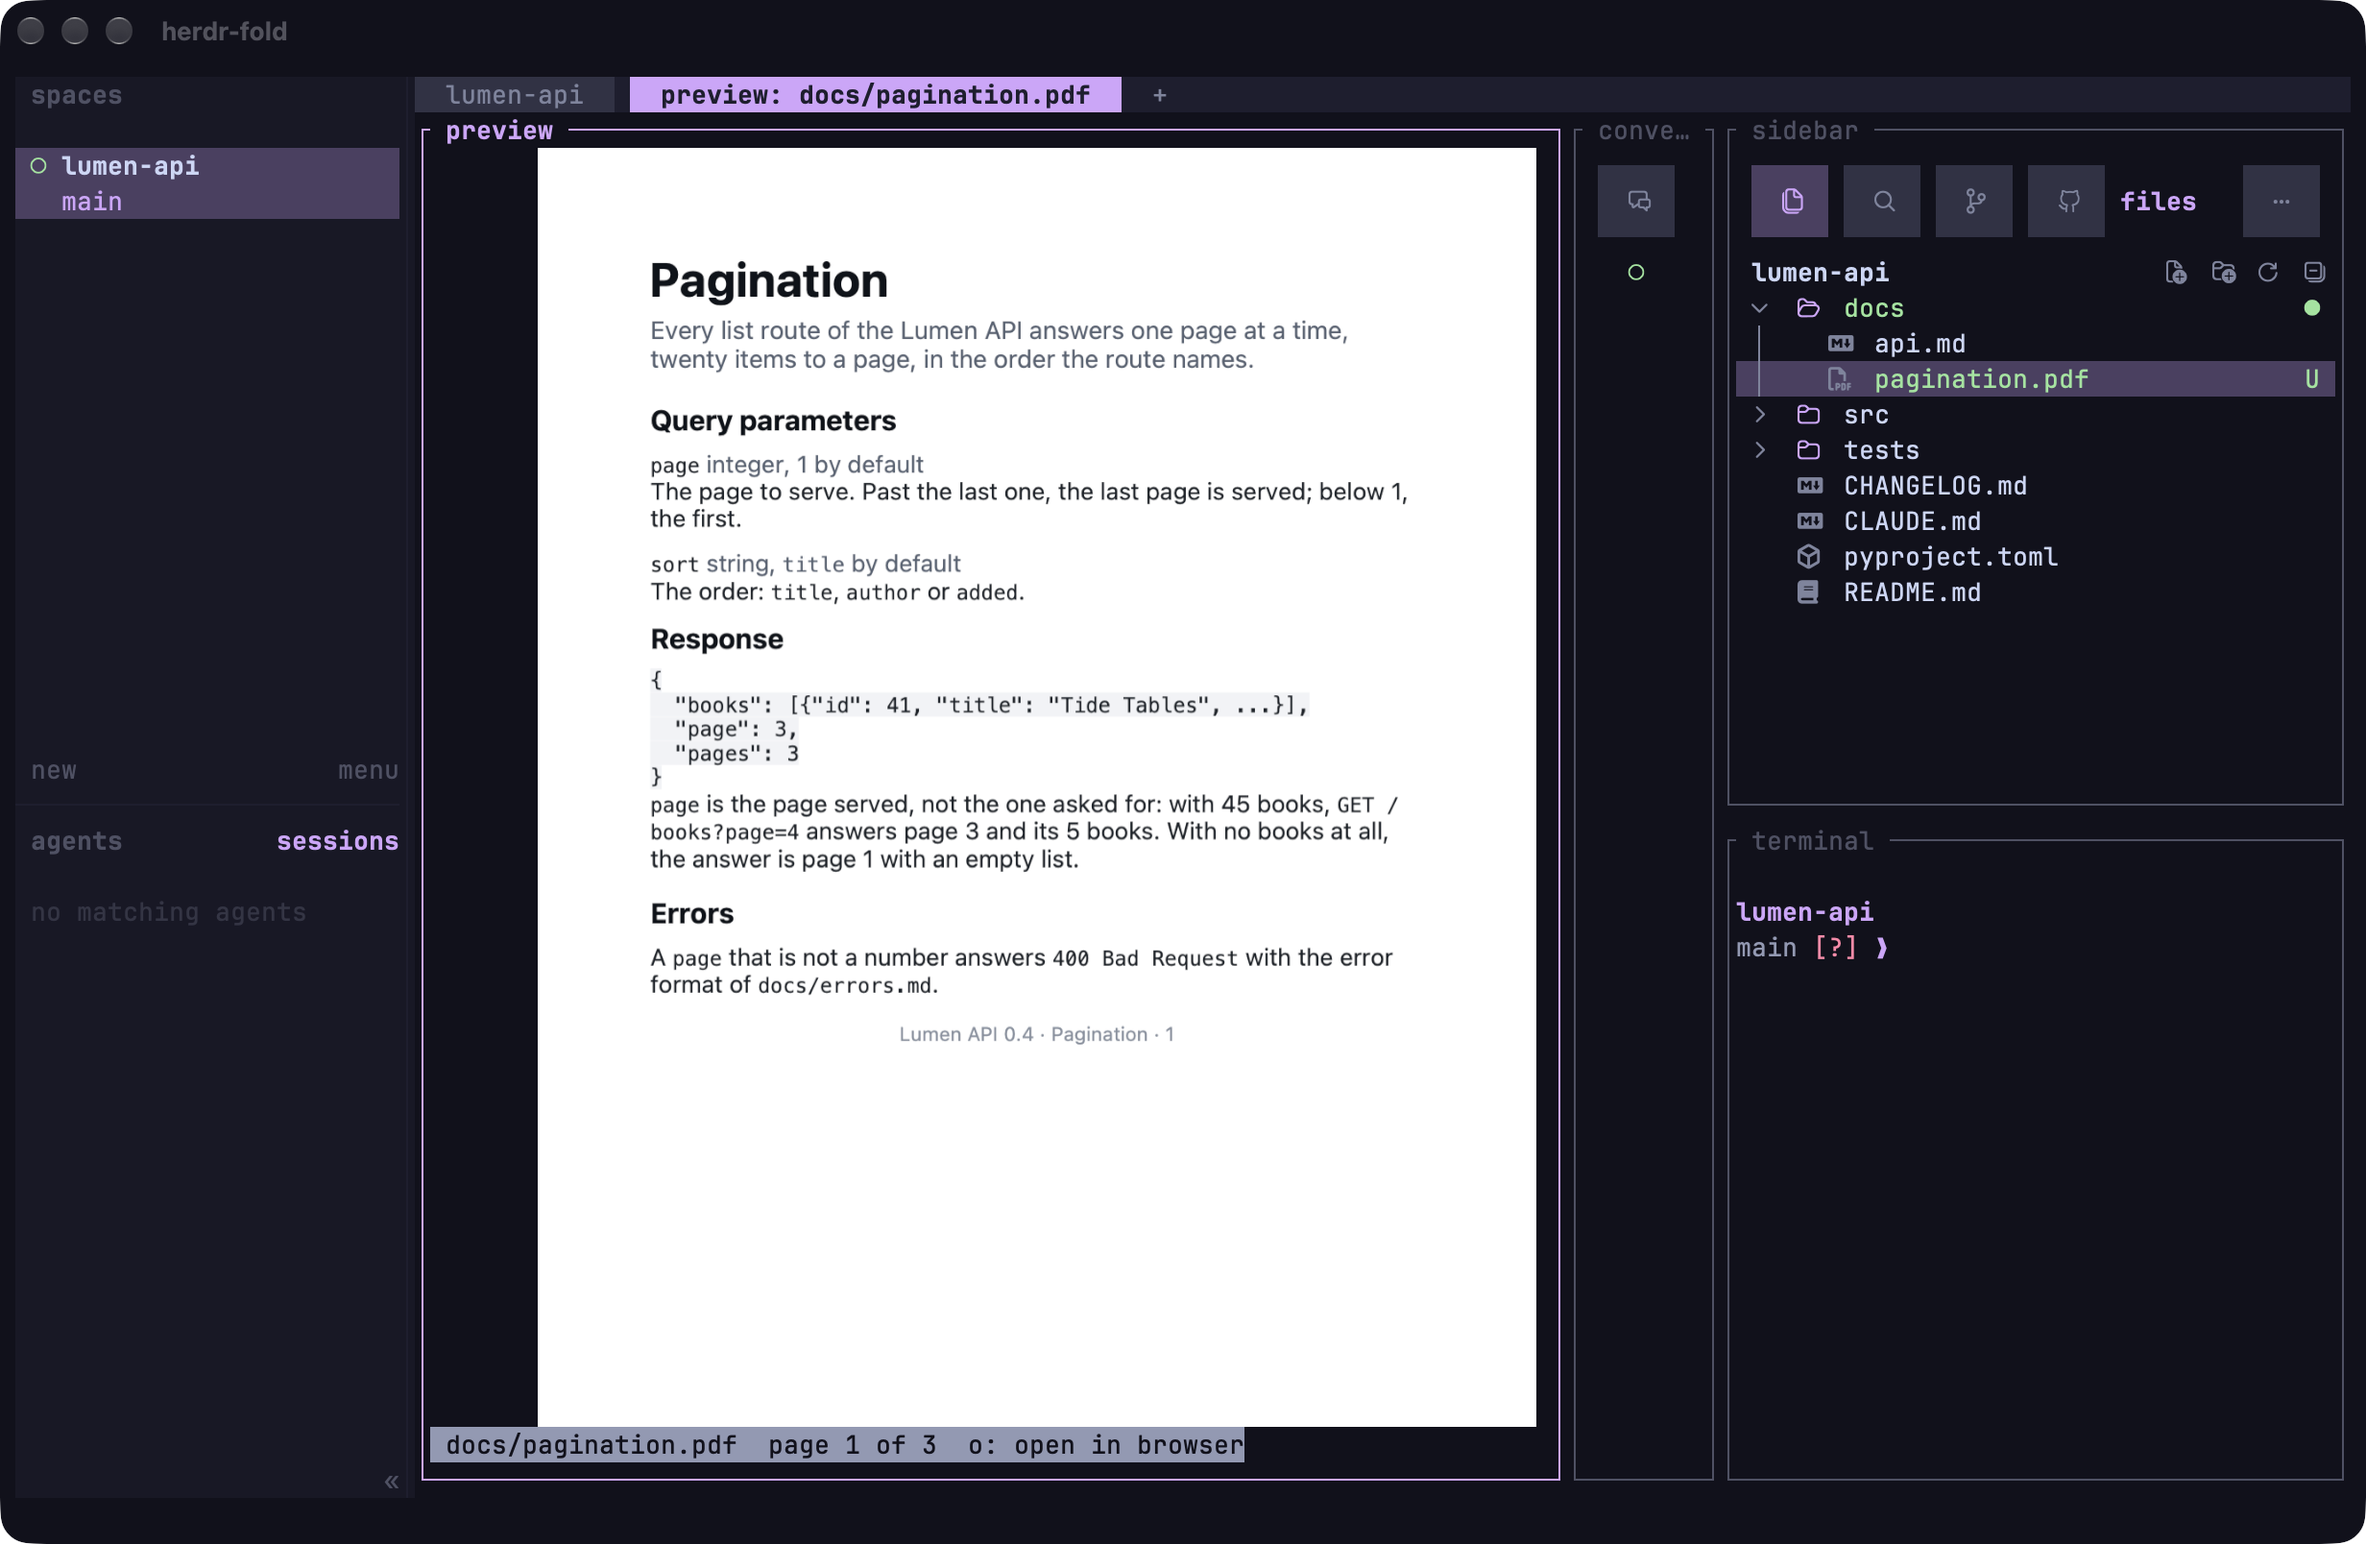
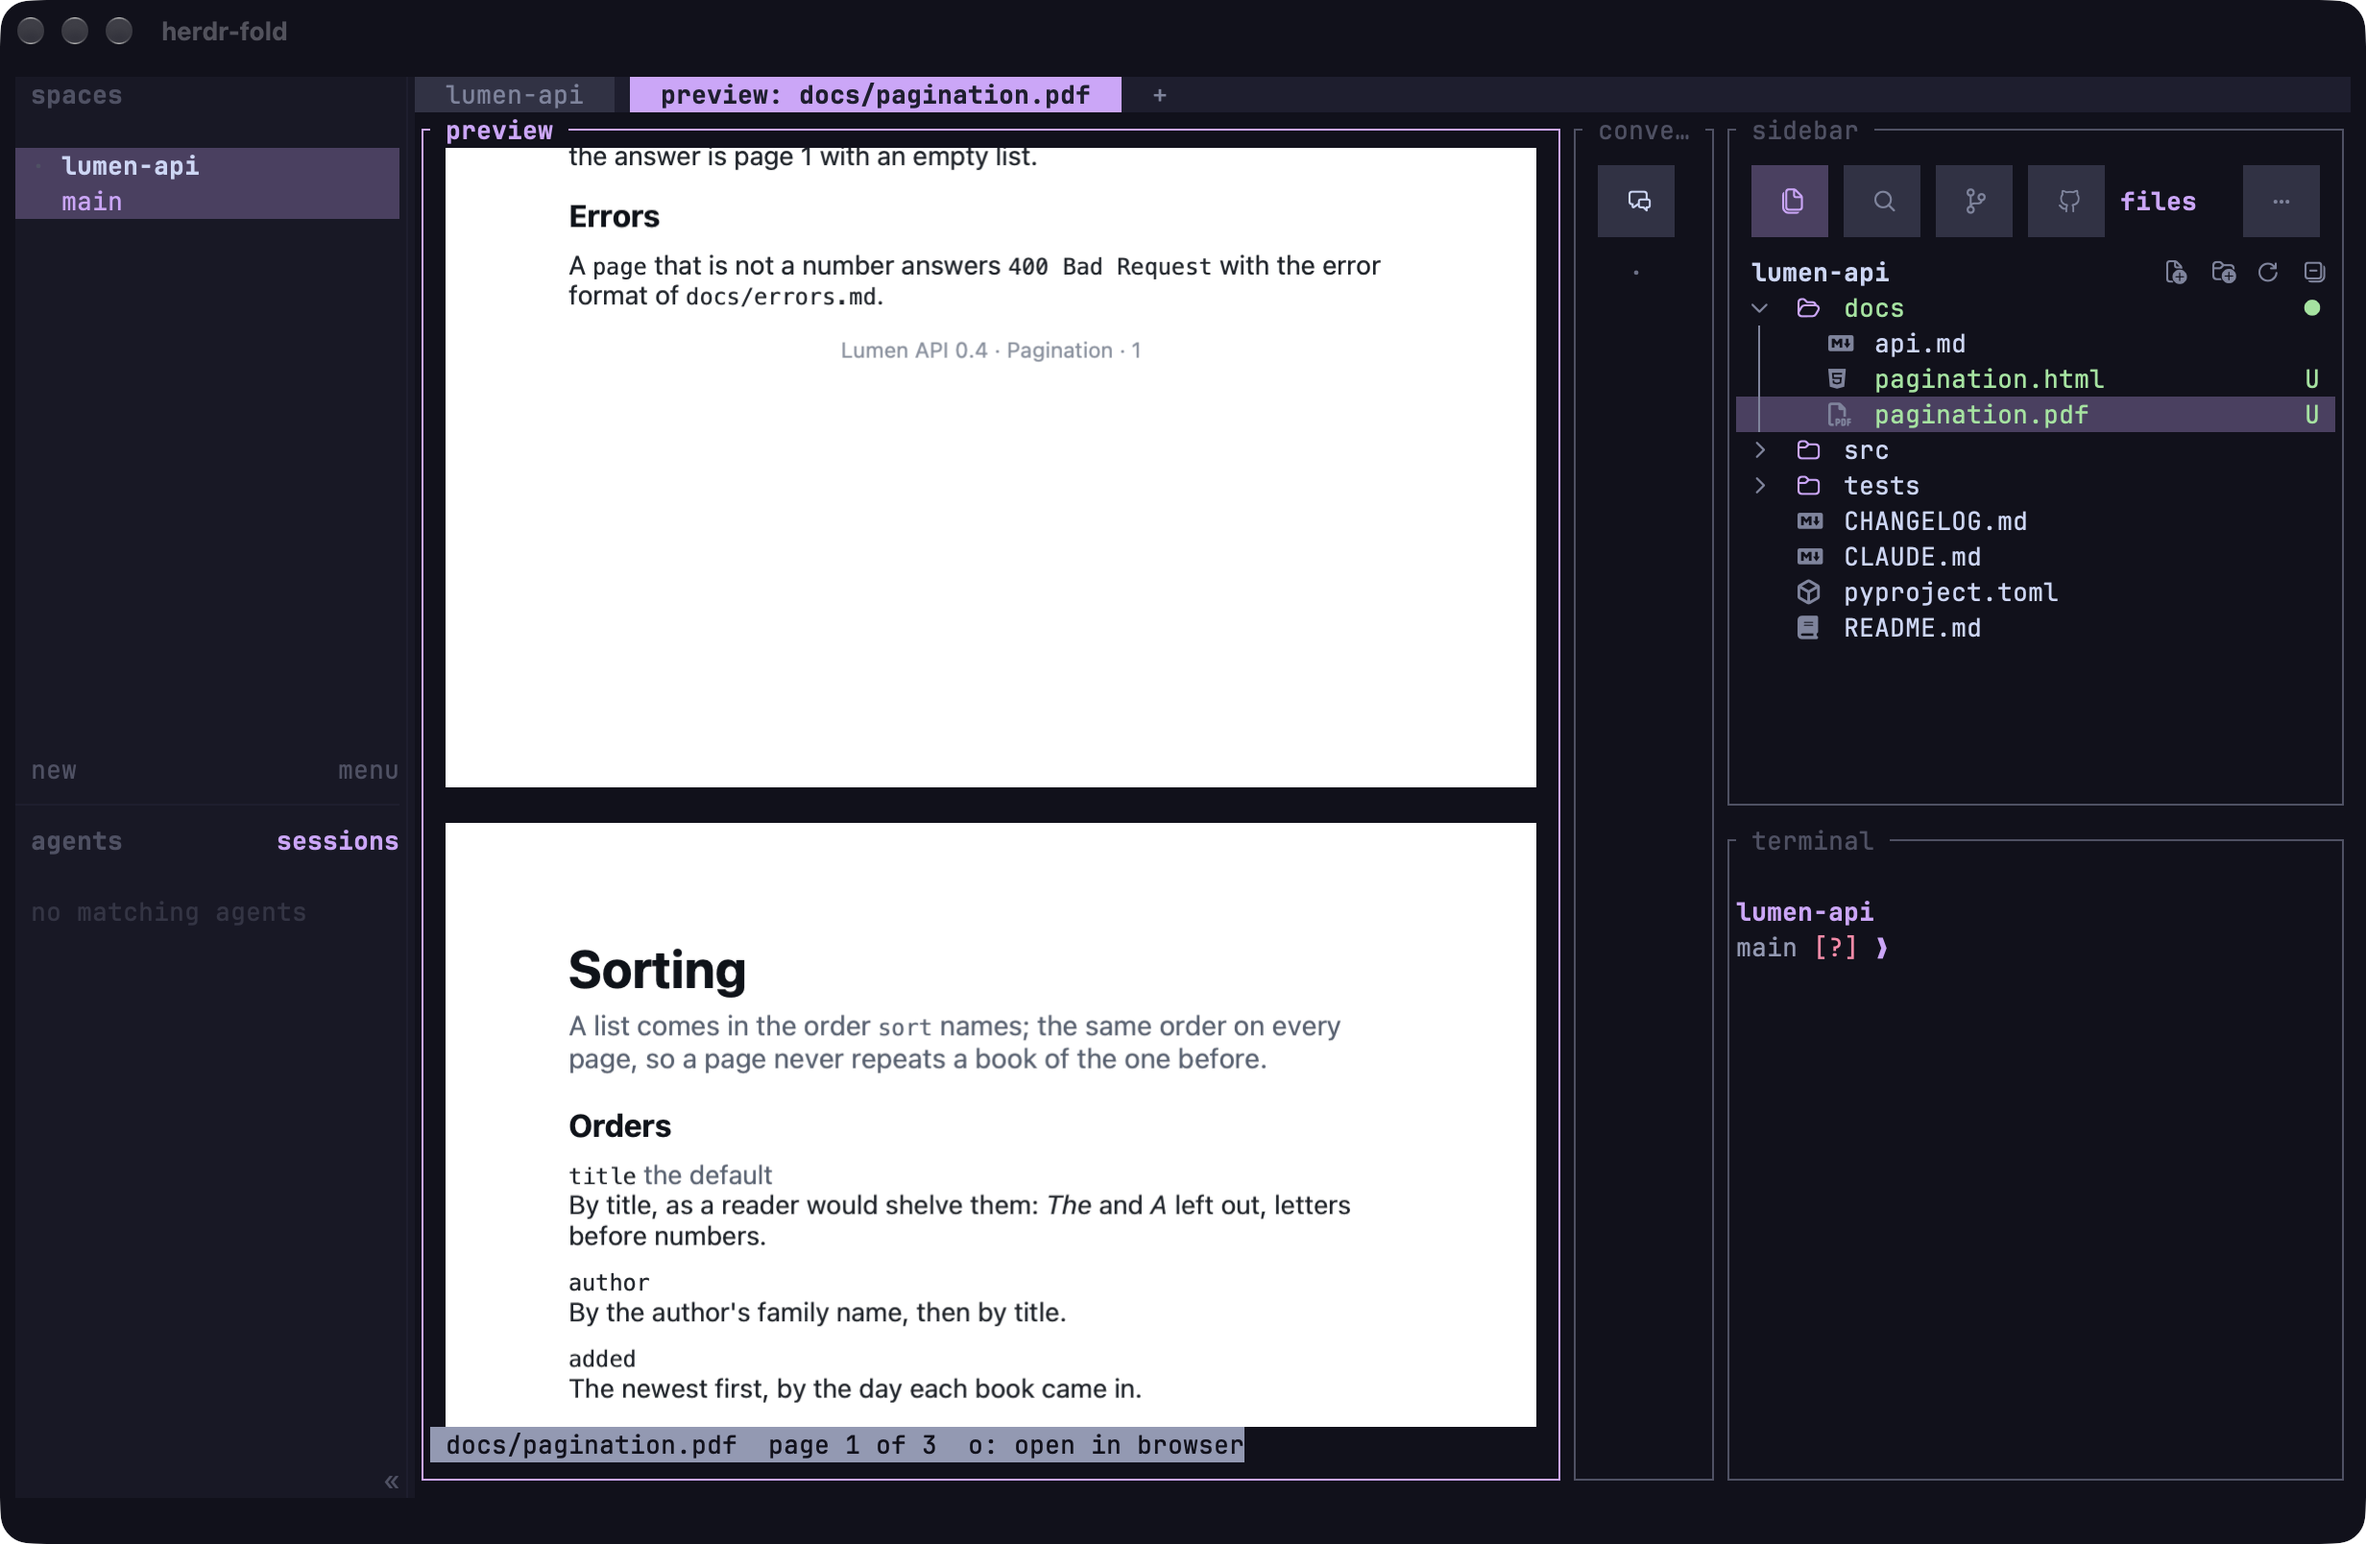
fix(preview): place a picture by the cells the terminal has
- Ask the terminal for its cell size in pixels, herdr gives a pane's
- Give a picture's columns and rows both, so it never leaves its box
- Lay a PDF's pages out by the real cell height, not a guess
- Take the TUI's PDF picture again and add one of a page by its code

Changed region(s): [[0.1875, 0.0933, 0.6562, 0.9328], [0.7188, 0.2177, 1.0, 0.4353], [0.5312, 0.5908, 0.5625, 0.6219]]

diff --git a/src/plugins/sidebar/pager.py b/src/plugins/sidebar/pager.py
@@ -34,7 +34,7 @@ MENU = "48;5;237;38;5;252"    # its colors: a background of its own, which a pic
 BELOW = -1073741825           # a picture's z in the Kitty graphics protocol: under a cell with a background of its own
 WAIT = 30                     # seconds a pipeline may run (gh asking GitHub, a program that never ends): then stopped
 PICTURE = 4271                # the picture's id in the Kitty graphics protocol: one at a time
-CELL, CELL_PX = 2.1, 16       # a cell's height by its width, and its width in a picture's pixels (Retina): a guess
+CELL, CELL_PX = 2.1, 16       # a cell's height by its width, and its width in pixels, where the terminal says neither
 GAP = 1                       # rows between two of a PDF's pages
 
 
@@ -246,14 +246,20 @@ class Pager:
         return True
 
 
-def fit(columns, rows, width, height):
-    """Where a WIDTH x HEIGHT picture goes in COLUMNS x ROWS cells: never past its own size, its aspect kept, centered.
-    (row, column, its columns or None, its rows or None): the terminal works the other one out."""
-    wide = min(columns, max(1, round(width / CELL_PX)))
-    tall = height / width * wide / CELL
-    if tall <= rows:
-        return (rows - round(tall)) // 2, (columns - wide) // 2, wide, None
-    return 0, (columns - round(width / height * rows * CELL)) // 2, None, rows
+def cell(term):
+    """A cell of TERM in pixels, (width, height): as the terminal says (herdr gives a pane's size in pixels), else the
+    guess."""
+    pixels, (columns, rows) = getattr(term, "pixels", lambda: None)(), term.size()
+    return (pixels[0] / columns, pixels[1] / rows) if pixels else (CELL_PX, CELL_PX * CELL)
+
+
+def fit(columns, rows, width, height, size=None):
+    """Where a WIDTH x HEIGHT picture goes in COLUMNS x ROWS cells of SIZE (cell's): never past its own size, its
+    aspect kept, centered. (row, column, its columns, its rows): both given, the terminal works neither out."""
+    cw, ch = size or (CELL_PX, CELL_PX * CELL)
+    scale = min(1, columns * cw / width, rows * ch / height)
+    wide, tall = min(columns, max(1, round(width * scale / cw))), min(rows, max(1, round(height * scale / ch)))
+    return (rows - tall) // 2, (columns - wide) // 2, wide, tall
 
 
 def kitty(data, columns, rows, crop=None, image=PICTURE):
@@ -281,9 +287,9 @@ def opening(term, columns, height, what):
     term.flush()
 
 
-def width_px(columns):
-    """The pixels a picture COLUMNS wide is made with."""
-    return min(2400, max(480, columns * CELL_PX))
+def width_px(columns, cw=CELL_PX):
+    """The pixels a picture COLUMNS wide (cells CW pixels wide) is made with."""
+    return min(2400, max(480, round(columns * cw)))
 
 
 class Picture:
@@ -296,6 +302,7 @@ class Picture:
         self.opens, self.swap = media.browsable(), None
         self.drawn = media.kind_of(path) in ("svg", "html")      # WebKit draws it, sharp at any width
         self.ready = not self.drawn                              # its helper compiled at its first draw
+        self.cell = (CELL_PX, CELL_PX * CELL)                    # the pane's, as its terminal says at each draw
 
     def shown(self):
         return self.note
@@ -308,14 +315,15 @@ class Picture:
     def png(self, columns, rows):
         """The picture as a PNG with the pixels COLUMNS x ROWS cells show: its longer side, the pane's height for a
         tall one."""
-        width = width_px(columns)
+        width, high = width_px(columns, self.cell[0]), round(rows * self.cell[1])
         if self.drawn:                               # a page as a browser of the room's size shows it
-            return media.drawn_png(self.path, width, self.work, round(rows * CELL_PX * CELL))
-        return media.as_png(self.path, self.work, min(2400, max(width, round(rows * CELL_PX * CELL))))
+            return media.drawn_png(self.path, width, self.work, high)
+        return media.as_png(self.path, self.work, min(2400, max(width, high)))
 
     def draw(self, term):
         columns, height = term.size()
         self.prepare(term, columns, height)
+        self.cell = cell(term)
         out = [self.taken(), "\x1b[0m\x1b[2J", self.place(columns, max(1, height - 1))]
         out.append(f"\x1b[{height};1H\x1b[0;7m{bar(self.status(), columns)}\x1b[K\x1b[0m")
         term.write("".join(out))
@@ -340,7 +348,7 @@ class Picture:
         if not shape:
             self.note = self.note or f"{self.title}: cannot be shown here{HINT if self.opens else ''}"
             return ""
-        row, column, wide, tall = fit(columns, rows, *shape)
+        row, column, wide, tall = fit(columns, rows, *shape, self.cell)
         with open(made, "rb") as f:
             return f"\x1b[{row + 1};{left + column + 1}H" + kitty(f.read(), wide, tall)
 
@@ -374,12 +382,12 @@ class Picture:
         shutil.rmtree(self.work, ignore_errors=True)
 
 
-def layout(sizes, columns):
-    """Where a PDF's pages (SIZES, each width and height) go COLUMNS wide, one under another a GAP apart: each one's
-    first row and rows, and the rows they all take."""
+def layout(sizes, columns, ratio=CELL):
+    """Where a PDF's pages (SIZES, each width and height) go COLUMNS wide, one under another a GAP apart, in cells RATIO
+    times as high as wide: each one's first row and rows, and the rows they all take."""
     places, top = [], 0
     for wide, tall in sizes:
-        rows = max(1, round(tall / wide * columns / CELL))
+        rows = max(1, round(tall / wide * columns / ratio))
         places.append((top, rows))
         top += rows + GAP
     return places, max(0, top - GAP)
@@ -420,9 +428,10 @@ class Pdf(Picture):
     def place(self, columns, rows, left=0):
         """The pages in view, COLUMNS wide less a column of air each side, ROWS high, as escapes: a page cut by the
         pane's edge shows its part in view."""
-        wide, width, self.rows = max(1, columns - 2), width_px(max(1, columns - 2)), rows
+        wide, self.rows = max(1, columns - 2), rows
+        width, ratio = width_px(wide, self.cell[0]), self.cell[1] / self.cell[0]
         first = None if self.sizes else media.page_png(self.path, 0, width, self.work)
-        self.places, self.total = layout(self.sizes or ([media.size(first)] if first else []), wide)
+        self.places, self.total = layout(self.sizes or ([media.size(first)] if first else []), wide, ratio)
         self.top = max(0, min(self.top, self.total - rows))
         out, self.placed = [], 0
         for n, (start, tall) in enumerate(self.places):
@@ -499,6 +508,7 @@ class PictureAndCode:
             return self.views().draw(term)
         self.views()
         self.picture.prepare(term, columns, height)
+        self.picture.cell = cell(term)
         left = self.divider(columns)
         out = [GONE, "\x1b[0m\x1b[2J"]
         for row, text in enumerate(self.code.rows(left, height - 1)):

diff --git a/tests/test_sidebar_preview.py b/tests/test_sidebar_preview.py
@@ -481,9 +481,19 @@ class Pictures(unittest.TestCase):
         set_env(self, XDG_CACHE_HOME=os.path.join(self.tmp, "cache"))
 
     def test_a_picture_fits_the_pane_and_keeps_its_aspect_centered(self):
-        self.assertEqual(pager.fit(80, 23, 4000, 2000), (2, 0, 80, None))          # as wide as the pane
-        self.assertEqual(pager.fit(80, 23, 1000, 4000), (0, 34, None, 23))         # as tall as it
-        self.assertEqual(pager.fit(80, 23, 160, 80), (10, 35, 10, None))           # a small one at its own size
+        self.assertEqual(pager.fit(80, 23, 4000, 2000), (2, 0, 80, 19))            # as wide as the pane
+        self.assertEqual(pager.fit(80, 23, 1000, 4000), (0, 34, 12, 23))           # as tall as it
+        self.assertEqual(pager.fit(80, 23, 160, 80), (10, 35, 10, 2))              # a small one at its own size
+
+    def test_a_picture_is_placed_by_the_cells_the_terminal_has(self):
+        """herdr gives a pane its size in pixels: a cell taller than guessed keeps a picture made for the box inside
+        it, its columns and rows both given, so the terminal works neither out (and never past the pane's edge)."""
+        class Pane(Written):
+            def pixels(self):
+                return 624, 629                                             # 39 x 17 cells of 16 x 37 pixels
+        self.assertEqual(pager.cell(Pane(39, 17)), (16, 37))
+        self.assertEqual(pager.cell(Written(39, 17)), (pager.CELL_PX, pager.CELL_PX * pager.CELL))   # the guess
+        self.assertEqual(pager.fit(35, 36, 560, 1332, (16, 37)), (0, 0, 35, 36))  # made for its box: just that
 
     def test_a_pane_resized_while_a_picture_is_drawn_is_drawn_again(self):
         """Making a PDF's page takes a moment: a preview tab's pane narrowed meanwhile is drawn again, at its width."""

diff --git a/src/plugins/sidebar/keys_unix.py b/src/plugins/sidebar/keys_unix.py
@@ -1,10 +1,12 @@
 """The sidebar's terminal on macOS and Linux: raw mode, the alternate screen, mouse, paste and focus reporting, switched
 on while it runs and back off afterwards. Keys arrive as events through the shared decoder (vt.py); another thread
 wakes the loop with wake(), and a window size change arrives as a Resize event."""
+import fcntl
 import os
 import select
 import shutil
 import signal
+import struct
 import sys
 import termios
 import tty
@@ -59,6 +61,14 @@ class UnixTerminal:
         """Columns and lines; 80×24 for a window that reports none (Python 3.9 passes a 0×0 size on)."""
         columns, lines = shutil.get_terminal_size((80, 24))
         return columns or 80, lines or 24
+
+    def pixels(self):
+        """The window's width and height in pixels where the terminal says (herdr does for a pane), else None."""
+        try:
+            *_, width, height = struct.unpack("HHHH", fcntl.ioctl(self.fd, termios.TIOCGWINSZ, bytes(8)))
+        except OSError:
+            return None
+        return (width, height) if width and height else None
 
     def read(self, timeout):
         """The events that arrive within TIMEOUT seconds (fewer, or none, if woken)."""

diff --git a/docs/sidebar.md b/docs/sidebar.md
@@ -13,8 +13,11 @@ priority](../assets/screenshots/sidebar.webp)
 ![A commit's diff in the preview tab, its message and each file's lines numbered, the tab laid out as the one it
 was opened from](../assets/screenshots/preview.webp)
 
-![A PDF's pages one under another in the preview tab, scrolled, the Conversations column folded beside it,
-and the sidebar's Files with the PDF chosen](../assets/screenshots/pdf.webp)
+![A PDF's pages one under another in the preview tab, scrolled to where its first page meets its second, the
+Conversations column folded beside it, and the sidebar's Files with the PDF chosen](../assets/screenshots/pdf.webp)
+
+![An HTML page's code left and the page right, drawn for its side, in the preview tab; the sidebar's Files with the
+page chosen](../assets/screenshots/split.webp)
 
 ## How it gets there
 
